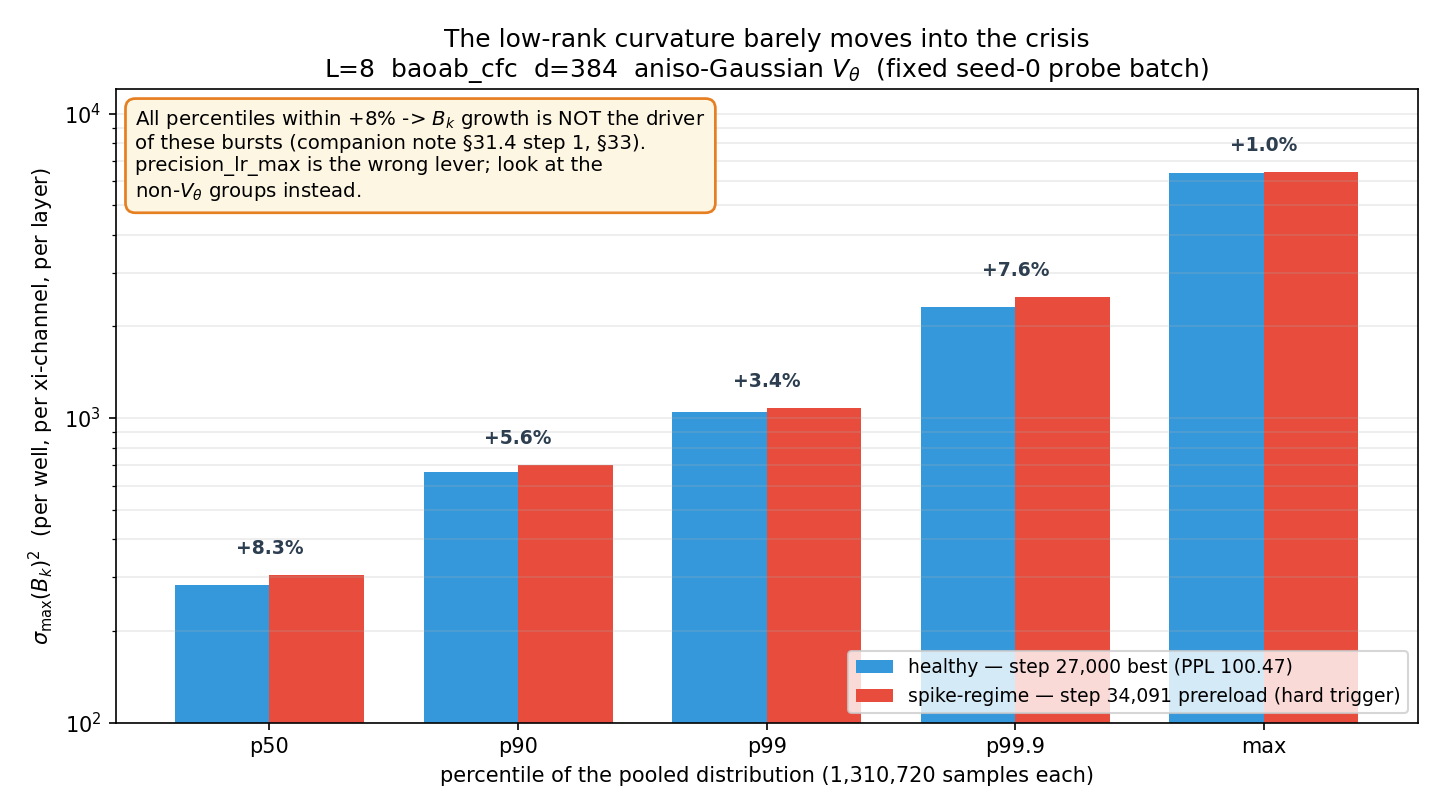
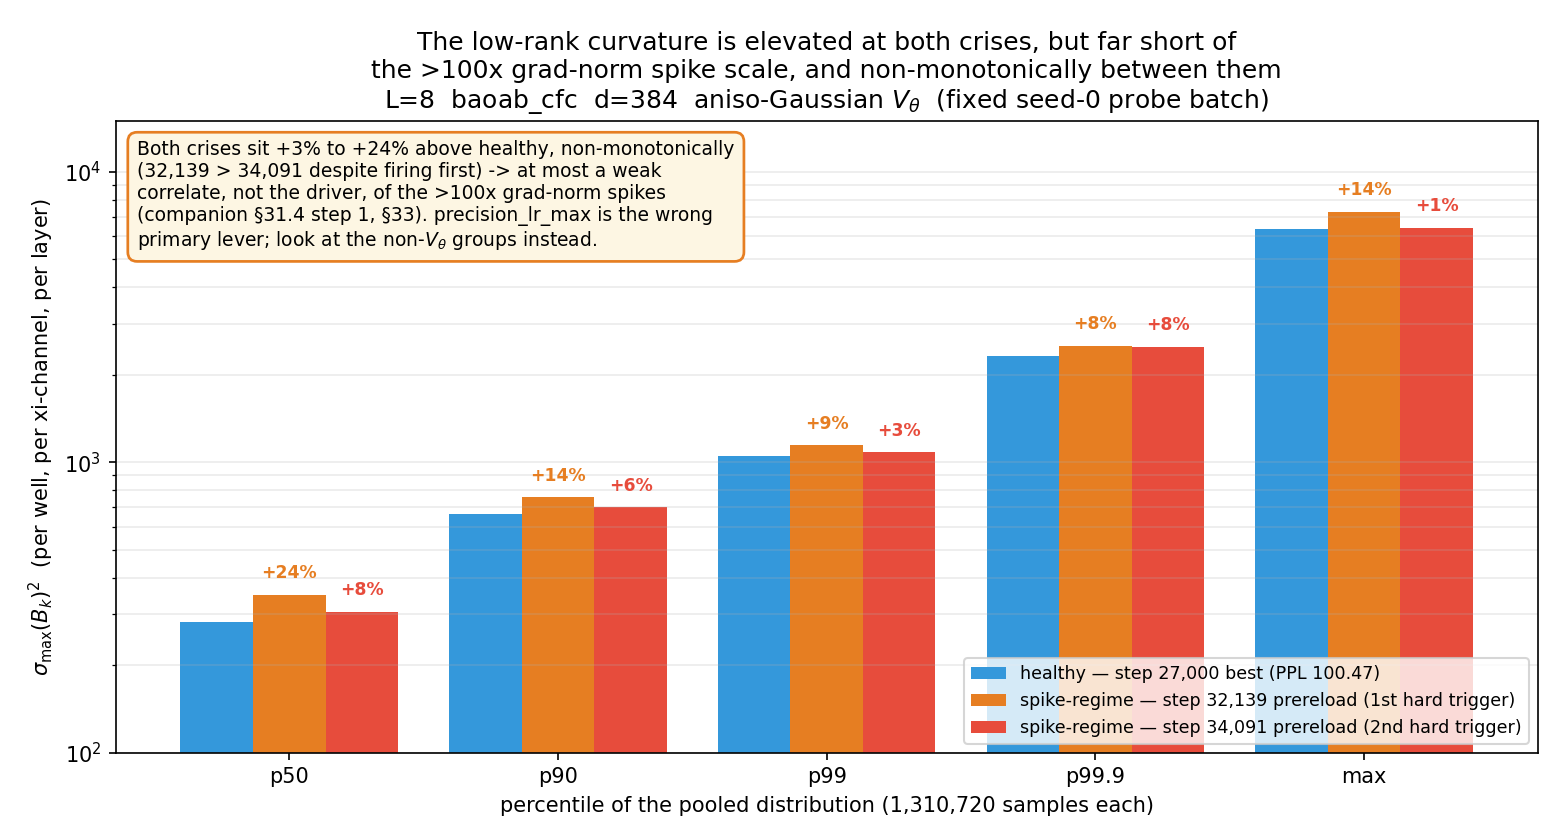
update spike root cause diagnostic plan with the last spike datapoint

diff --git a/docs/images/_make_spike_diagnostic_figures.py b/docs/images/_make_spike_diagnostic_figures.py
@@ -9,9 +9,13 @@ Three figures, used by:
 Figure 1 (scaf_spike_diag_sigma_lr_bracket_result.png)
     REAL DATA. The measured sigma_max(B_k)^2 percentiles from the live L=8
     baoab_cfc d=384 run: a healthy checkpoint (step 27,000, best, PPL 100.47)
-    vs. a spike-regime prereload snapshot (step 34,091, hard-watchdog trigger).
-    The two distributions are within +8% at every percentile -> B_k growth is
-    NOT the driver of these bursts (companion note §31.4 step 1, §33).
+    vs. both spike-regime prereload snapshots (step 32,139 and step 34,091,
+    the two hard-watchdog triggers). Both spike snapshots sit modestly above
+    healthy (roughly +3% to +24%, non-monotonically -- 32,139 is the MORE
+    elevated of the two despite firing first), but nowhere near the >100x
+    scale of the observed grad-norm spikes -> B_k is at most a weak
+    correlate, not the driver, of these bursts (companion note §31.4 step 1,
+    §33).
 
 Figure 2 (scaf_spike_diag_forward_backward_map.png)
     SCHEMATIC. The Fock-PARFLM forward integrator, the parameter groups that
@@ -50,17 +54,21 @@ C_DARK = "#2c3e50"
 def fig_bracket_result(out="scaf_spike_diag_sigma_lr_bracket_result.png"):
     labels = ["p50", "p90", "p99", "p99.9", "max"]
     healthy = [282.11, 663.61, 1047.00, 2322.33, 6364.81]
-    spike = [305.59, 700.53, 1082.80, 2499.07, 6427.16]
-    deltas = [100.0 * (s - h) / h for h, s in zip(healthy, spike)]
+    s32139 = [350.07, 758.32, 1145.95, 2514.92, 7285.88]
+    s34091 = [305.59, 700.53, 1082.80, 2499.07, 6427.16]
+    d32139 = [100.0 * (s - h) / h for h, s in zip(healthy, s32139)]
+    d34091 = [100.0 * (s - h) / h for h, s in zip(healthy, s34091)]
 
     x = np.arange(len(labels))
-    w = 0.38
+    w = 0.27
 
-    fig, ax = plt.subplots(figsize=(9.6, 5.4))
-    b1 = ax.bar(x - w / 2, healthy, w, color=C_BLUE,
-                label="healthy — step 27,000 best (PPL 100.47)")
-    b2 = ax.bar(x + w / 2, spike, w, color=C_RED,
-                label="spike-regime — step 34,091 prereload (hard trigger)")
+    fig, ax = plt.subplots(figsize=(10.4, 5.6))
+    ax.bar(x - w, healthy, w, color=C_BLUE,
+           label="healthy — step 27,000 best (PPL 100.47)")
+    ax.bar(x, s32139, w, color=C_ORANGE,
+           label="spike-regime — step 32,139 prereload (1st hard trigger)")
+    ax.bar(x + w, s34091, w, color=C_RED,
+           label="spike-regime — step 34,091 prereload (2nd hard trigger)")
 
     ax.set_yscale("log")
     ax.set_ylabel(r"$\sigma_{\max}(B_k)^2$  (per well, per xi-channel, per layer)")
@@ -68,27 +76,32 @@ def fig_bracket_result(out="scaf_spike_diag_sigma_lr_bracket_result.png"):
     ax.set_xticks(x)
     ax.set_xticklabels(labels)
     ax.set_title(
-        "The low-rank curvature barely moves into the crisis\n"
+        "The low-rank curvature is elevated at both crises, but far short of\n"
+        "the >100x grad-norm spike scale, and non-monotonically between them\n"
         "L=8  baoab_cfc  d=384  aniso-Gaussian $V_\\theta$  (fixed seed-0 probe batch)"
     )
-    ax.set_ylim(100, 12000)
+    ax.set_ylim(100, 15000)
 
-    for xi, h, s, d in zip(x, healthy, spike, deltas):
-        top = max(h, s)
-        ax.annotate(f"+{d:.1f}%", xy=(xi, top), xytext=(0, 8),
+    for xi, dv, sv in zip(x, d32139, s32139):
+        ax.annotate(f"+{dv:.0f}%", xy=(xi, sv), xytext=(0, 6),
                     textcoords="offset points", ha="center", va="bottom",
-                    fontsize=9, color=C_DARK, fontweight="bold")
+                    fontsize=8.3, color=C_ORANGE, fontweight="bold")
+    for xi, dv, sv in zip(x, d34091, s34091):
+        ax.annotate(f"+{dv:.0f}%", xy=(xi + w, sv), xytext=(0, 6),
+                    textcoords="offset points", ha="center", va="bottom",
+                    fontsize=8.3, color=C_RED, fontweight="bold")
 
     ax.text(
         0.015, 0.97,
-        "All percentiles within +8% -> $B_k$ growth is NOT the driver\n"
-        "of these bursts (companion note §31.4 step 1, §33).\n"
-        "precision_lr_max is the wrong lever; look at the\n"
-        "non-$V_\\theta$ groups instead.",
-        transform=ax.transAxes, ha="left", va="top", fontsize=9.5,
+        "Both crises sit +3% to +24% above healthy, non-monotonically\n"
+        "(32,139 > 34,091 despite firing first) -> at most a weak\n"
+        "correlate, not the driver, of the >100x grad-norm spikes\n"
+        "(companion §31.4 step 1, §33). precision_lr_max is the wrong\n"
+        "primary lever; look at the non-$V_\\theta$ groups instead.",
+        transform=ax.transAxes, ha="left", va="top", fontsize=9.0,
         bbox=dict(boxstyle="round,pad=0.5", fc="#fdf6e3", ec=C_ORANGE, lw=1.3),
     )
-    ax.legend(loc="lower right", fontsize=9)
+    ax.legend(loc="lower right", fontsize=8.4)
     ax.grid(axis="y", alpha=0.25, which="both")
     fig.tight_layout()
     fig.savefig(out, dpi=150)

diff --git a/docs/Gradient_Spike_Probe_Requirements_and_Design.md b/docs/Gradient_Spike_Probe_Requirements_and_Design.md
@@ -18,7 +18,9 @@ and group-agnostic),
 contract this design extends with two small additions, §5.2),
 [`CfC_BAOAB_Integrator_and_Mitigations.md` §33](https://github.com/dimitarpg13/semsimula-paper/blob/main/companion_notes/CfC_BAOAB_Integrator_and_Mitigations.md)
 (the empirical result that motivated this probe: the `precision_lr_max`
-bracket came back flat, so the spikes are not a $V_\theta$-curvature problem).
+bracket came back modestly and non-monotonically elevated but far too small
+in magnitude to explain the spikes, so they are not primarily a
+$V_\theta$-curvature problem).
 
 ---
 
@@ -60,17 +62,25 @@ Three tools already exist and each stops short of attribution:
    $\omega \Delta t$ from the $V_\theta$ harmonic linearisation and the
    `sigma_lr_*` percentiles of $\sigma_{\max}(B_k)^2$. That is exactly the
    right tool when the suspect is $V_\theta$ curvature — but on the live L=8
-   `baoab_cfc` d=384 run it returned a **negative** result:
+   `baoab_cfc` d=384 run it returned a **negative** result for $B_k$ as the
+   *primary* driver:
 
-> The `precision_lr_max` bracket pair (healthy step-27,000 checkpoint vs.
-> step-34,091 spike-regime prereload) came back within +8% at every
-> percentile. $B_k$ growth is not the driver of these bursts; the spikes
-> live in the non-$V_\theta$ groups. (CfC/BAOAB companion note §33.1.)
+> The `precision_lr_max` bracket (healthy step-27,000 checkpoint vs. both
+> spike-regime prereload snapshots, step 32,139 and step 34,091) came back
+> +1% to +24% above healthy at every percentile — real and repeatable, but
+> non-monotonic between the two triggers (32,139 is *more* elevated than
+> 34,091, despite firing first) and far too small to explain pre-clip
+> grad-norms of 701.1 and 5,864.9 (both an order of magnitude or more above
+> the `GRAD_NORM_HARD_TRIGGER=500.0` threshold) via a $\lesssim 1.1\times$
+> frequency effect. $B_k$ growth is at most a weak correlate, not the
+> driver, of these bursts; the spikes live in the non-$V_\theta$ groups.
+> (CfC/BAOAB companion note §33.1.)
 
-<p align="center"><img src="images/scaf_spike_diag_sigma_lr_bracket_result.png" alt="Grouped bar chart on a log y-axis comparing sigma_max(B_k)^2 percentiles between a healthy step-27000 checkpoint and a spike-regime step-34091 prereload snapshot, showing the two distributions differ by at most eight percent across p50 through max, with an annotation concluding that B_k growth is not the driver of the bursts" width="720"></p>
+<p align="center"><img src="images/scaf_spike_diag_sigma_lr_bracket_result.png" alt="Grouped bar chart on a log y-axis comparing sigma_max(B_k)^2 percentiles between a healthy step-27000 checkpoint and two spike-regime prereload snapshots (step 32139 and step 34091), showing both spike checkpoints modestly and non-monotonically elevated above healthy across p50 through max, with an annotation concluding that B_k is at most a weak correlate, not the driver, of the bursts" width="720"></p>
 
-That flat result is the motivation for this probe. `StiffnessProbe` could rule
-$V_\theta$ *out*; nothing in SCAF can currently point at what is *in*. The
+That modest-but-non-escalating result is the motivation for this probe.
+`StiffnessProbe` could rule $V_\theta$ *out* as the primary driver; nothing
+in SCAF can currently point at what is *in*. The
 crucial fact `StiffnessProbe` also surfaces — that $B_k$ is context-dependent,
 so a static weight inspection undersells what the *actual* offending batch
 does — is exactly why this probe is built around a captured batch and a real
@@ -159,7 +169,8 @@ model's `.grad` state exactly as it found it.
 
 The captured-batch path is the point of the probe. A corpus sample reproduces
 the §2 limitation (it measures the weights' *typical* behaviour, which for
-$B_k$ was flat); the offending batch reproduces the *event*.
+$B_k$ was only modestly and non-monotonically elevated); the offending batch
+reproduces the *event*.
 
 ### 5.2 Adapter contract additions
 
